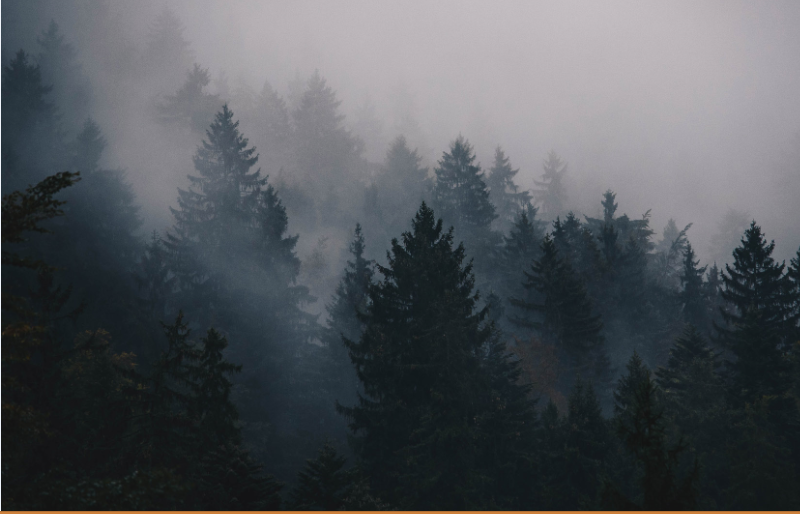
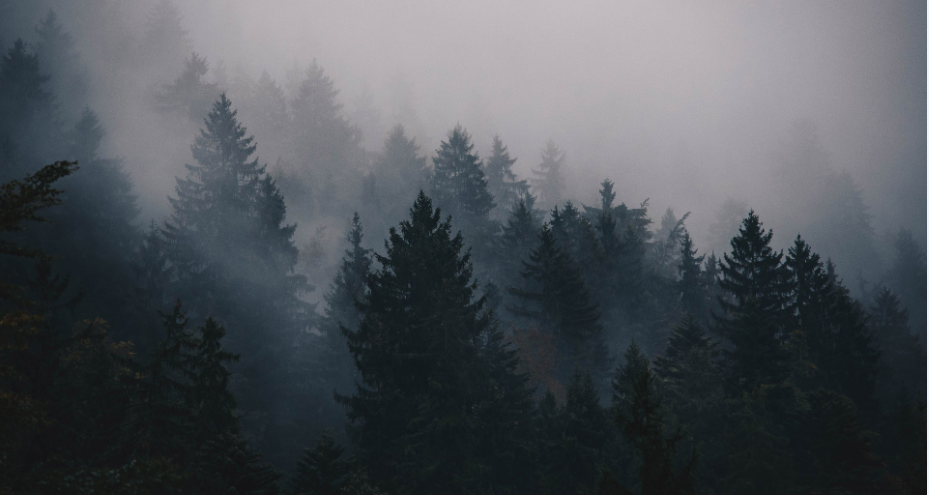
d

diff --git a/CSS/style.css b/CSS/style.css
@@ -1,5 +1,5 @@
 .body1{
-    background-image: url(https://github.com/Mishokartozia/project-1/blob/main/images/backg1.jpg?raw=true);
+    background-image: url(https://github.com/Mishokartozia/project-1/blob/main/images/Capture.PNG?raw=true);
    
     width: 100%;
    
